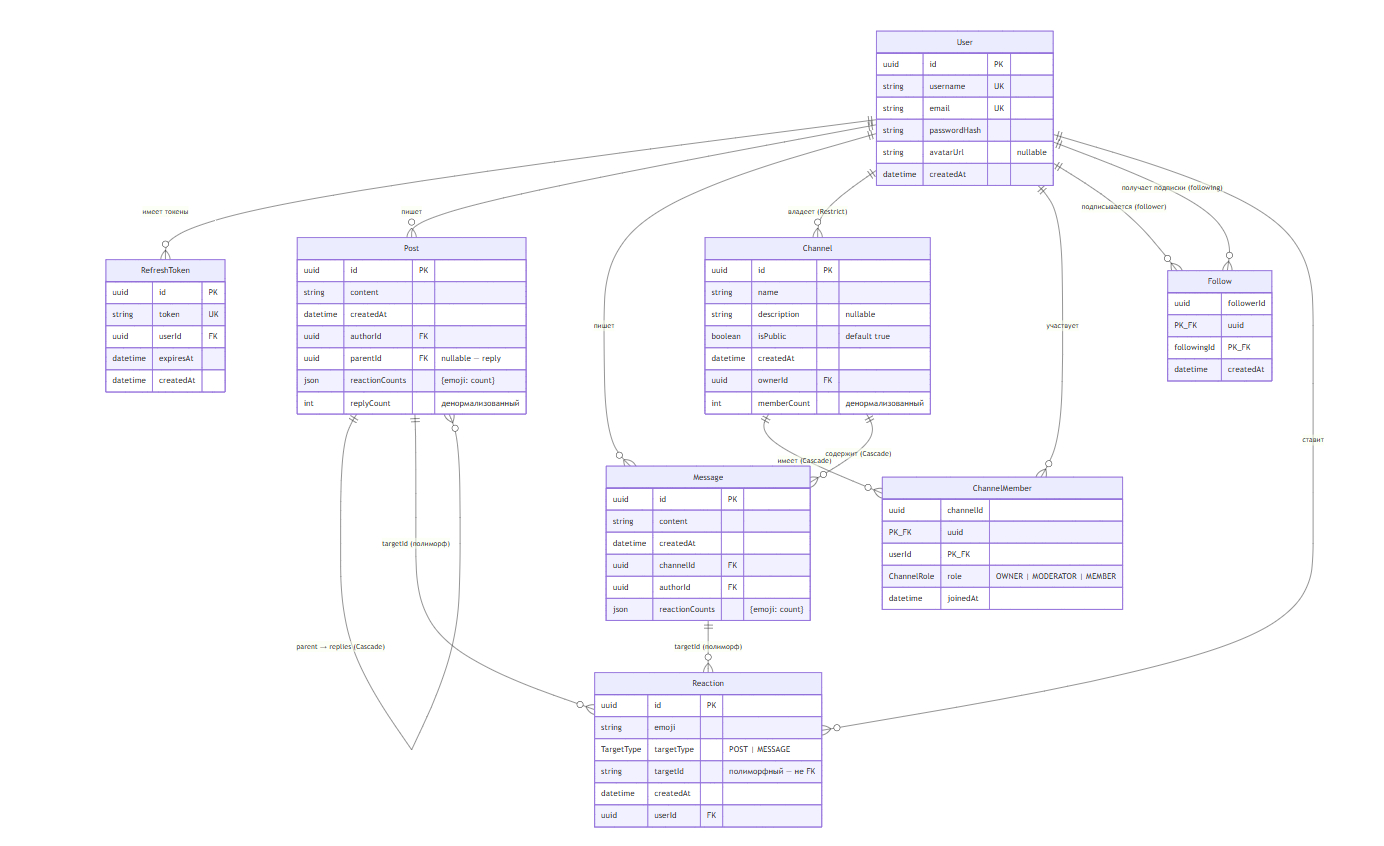
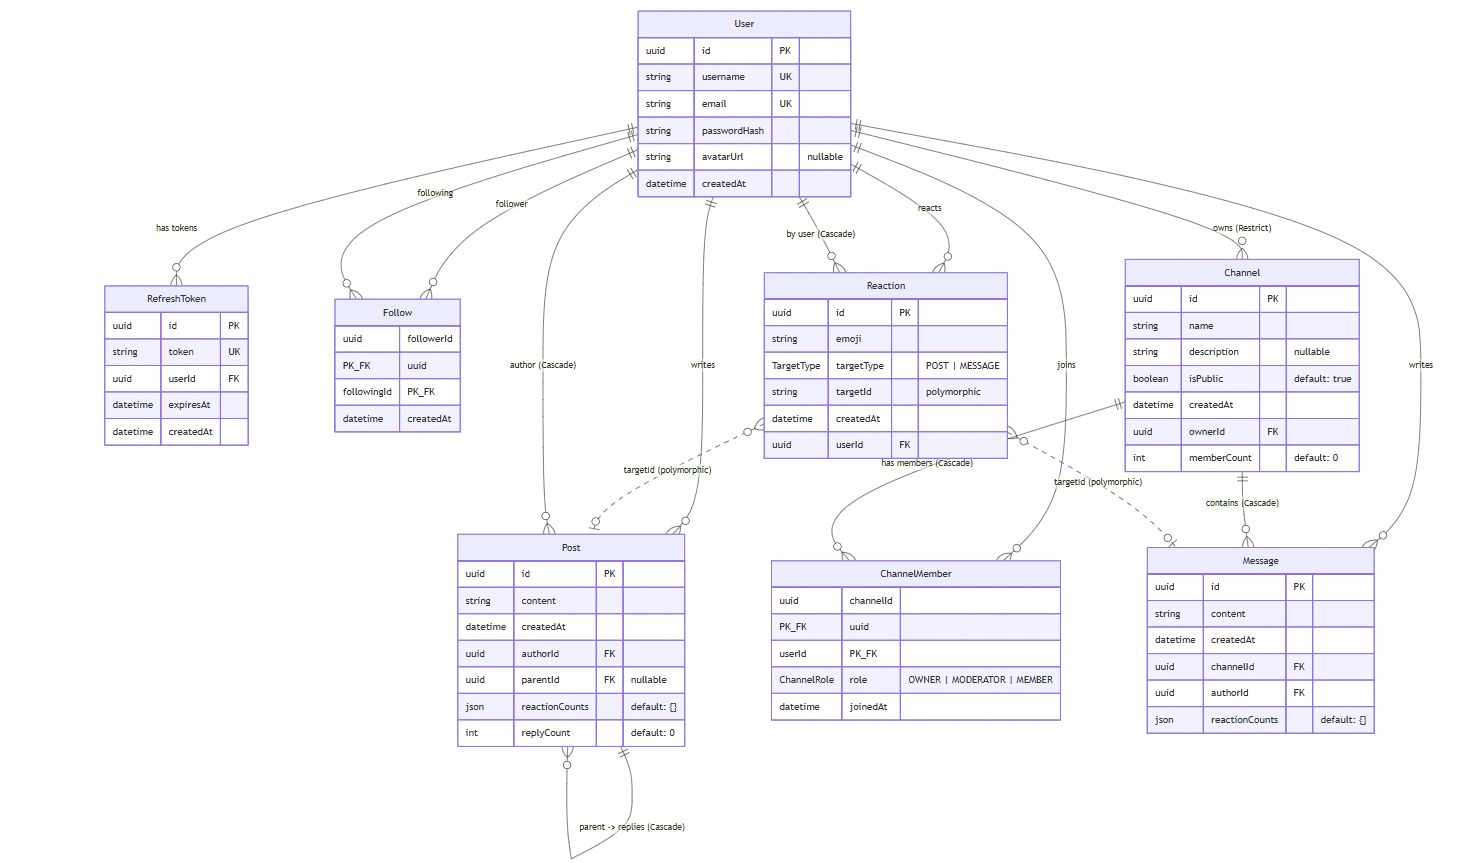
надеюсь все

diff --git a/frontend/src/pages/ChannelChatPage.tsx b/frontend/src/pages/ChannelChatPage.tsx
@@ -1,10 +1,10 @@
 import { useState, useEffect, useRef } from 'react';
-import { useParams, Link } from 'react-router-dom';
-import { ArrowLeft, Hash, Users, LogOut, X, Settings, ChevronUp, UserPlus } from 'lucide-react';
+import { useParams, Link, useNavigate } from 'react-router-dom';
+import { ArrowLeft, Hash, Users, LogOut, X, Settings, ChevronUp, UserPlus, Trash2 } from 'lucide-react';
 import MessageList from '../components/MessageList';
 import MessageInput from '../components/MessageInput';
 import { useAuthStore } from '../store/auth';
-import { getChannel, joinChannel, leaveChannel, getMembers, updateChannel, setMemberRole, kickMember, inviteMember } from '../api/channels';
+import { getChannel, joinChannel, leaveChannel, getMembers, updateChannel, setMemberRole, kickMember, inviteMember, deleteChannel } from '../api/channels';
 import { getAllUsers } from '../api/users';
 import { getMessages, sendMessage } from '../api/messages';
 
@@ -43,6 +43,7 @@ interface Member {
 
 export default function ChannelChatPage() {
   const { id } = useParams<{ id: string }>();
+  const navigate = useNavigate();
   const user = useAuthStore((s) => s.user);
   const [channel, setChannel] = useState<Channel | null>(null);
   const [msgs, setMsgs] = useState<Message[]>([]);
@@ -57,17 +58,24 @@ export default function ChannelChatPage() {
   const [showInvite, setShowInvite] = useState(false);
   const [inviteSearch, setInviteSearch] = useState('');
   const [inviteResults, setInviteResults] = useState<{ id: string; username: string }[]>([]);
+  const inviteDebounceRef = useRef<ReturnType<typeof setTimeout>>();
 
   useEffect(() => {
     if (!id) return;
-    Promise.all([getChannel(id), getMessages(id)])
-      .then(([ch, msgsRes]) => {
+    const load = async () => {
+      try {
+        const ch = await getChannel(id);
         setChannel(ch);
-        setMsgs(msgsRes.data.reverse());
-        setMsgCursor(msgsRes.nextCursor);
-        setHasMoreMsgs(msgsRes.hasMore);
-      })
-      .finally(() => setLoading(false));
+        try {
+          const msgsRes = await getMessages(id);
+          setMsgs(msgsRes.data.reverse());
+          setMsgCursor(msgsRes.nextCursor);
+          setHasMoreMsgs(msgsRes.hasMore);
+        } catch {}
+      } catch {}
+      setLoading(false);
+    };
+    load();
   }, [id]);
 
   const handleLoadOlder = async () => {
@@ -133,6 +141,12 @@ export default function ChannelChatPage() {
     setShowEdit(false);
   };
 
+  const handleDelete = async () => {
+    if (!id || !confirm('Удалить канал? Это действие необратимо.')) return;
+    await deleteChannel(id);
+    navigate('/channels');
+  };
+
   const openEdit = () => {
     setEditName(channel.name);
     setEditDesc(channel.description || '');
@@ -154,8 +168,6 @@ export default function ChannelChatPage() {
     setMembers(refreshed.data);
     setChannel({ ...channel, memberCount: channel.memberCount - 1 });
   };
-
-  const inviteDebounceRef = useRef<ReturnType<typeof setTimeout>>();
 
   const handleInviteSearch = (query: string) => {
     setInviteSearch(query);
@@ -215,6 +227,14 @@ export default function ChannelChatPage() {
               className="flex items-center gap-1 text-xs font-semibold text-text-muted border-2 border-border px-2 py-1 bg-surface-elevated hover:bg-accent transition-colors"
             >
               <Settings className="w-3.5 h-3.5" />
+            </button>
+          )}
+          {isOwner && (
+            <button
+              onClick={handleDelete}
+              className="flex items-center gap-1 text-xs font-semibold text-danger border-2 border-border px-2 py-1 bg-surface-elevated hover:bg-danger hover:text-white transition-colors"
+            >
+              <Trash2 className="w-3.5 h-3.5" />
             </button>
           )}
           <button

diff --git a/backend/src/channel/channel.service.ts b/backend/src/channel/channel.service.ts
@@ -115,6 +115,24 @@ export class ChannelService {
     }
   }
 
+  async delete(channelId: string) {
+    const channel = await this.prisma.channel.findUnique({ where: { id: channelId } });
+    if (!channel) throw new NotFoundException('Channel not found');
+
+    await this.prisma.$transaction([
+      this.prisma.reaction.deleteMany({
+        where: {
+          targetType: 'MESSAGE',
+          targetId: { in: await this.prisma.message.findMany({ where: { channelId }, select: { id: true } }).then(msgs => msgs.map(m => m.id)) },
+        },
+      }),
+      this.prisma.message.deleteMany({ where: { channelId } }),
+      this.prisma.channelMember.deleteMany({ where: { channelId } }),
+      this.prisma.channel.delete({ where: { id: channelId } }),
+    ]);
+    await this.invalidateChannelsCache();
+  }
+
   private async invalidateChannelsCache() {
     const deletes = [...this.channelCacheKeys].map((key) => this.cache.del(key));
     await Promise.all(deletes);

diff --git a/backend/src/channel/channel.controller.ts b/backend/src/channel/channel.controller.ts
@@ -62,6 +62,14 @@ export class ChannelController {
     return this.channelService.updateChannelDirect(id, dto);
   }
 
+  @Delete(':id')
+  @UseGuards(AuthGuard, ChannelRolesGuard)
+  @Roles('OWNER')
+  @HttpCode(HttpStatus.NO_CONTENT)
+  deleteChannel(@Param('id') id: string) {
+    return this.channelService.delete(id);
+  }
+
   @Post(':id/join')
   @UseGuards(AuthGuard)
   @HttpCode(HttpStatus.CREATED)

diff --git a/frontend/src/api/channels.ts b/frontend/src/api/channels.ts
@@ -15,6 +15,10 @@ export async function createChannel(name: string, description: string, isPublic 
   return data;
 }
 
+export async function deleteChannel(id: string) {
+  await client.delete(`/channels/${id}`);
+}
+
 export async function joinChannel(id: string) {
   await client.post(`/channels/${id}/join`);
 }
